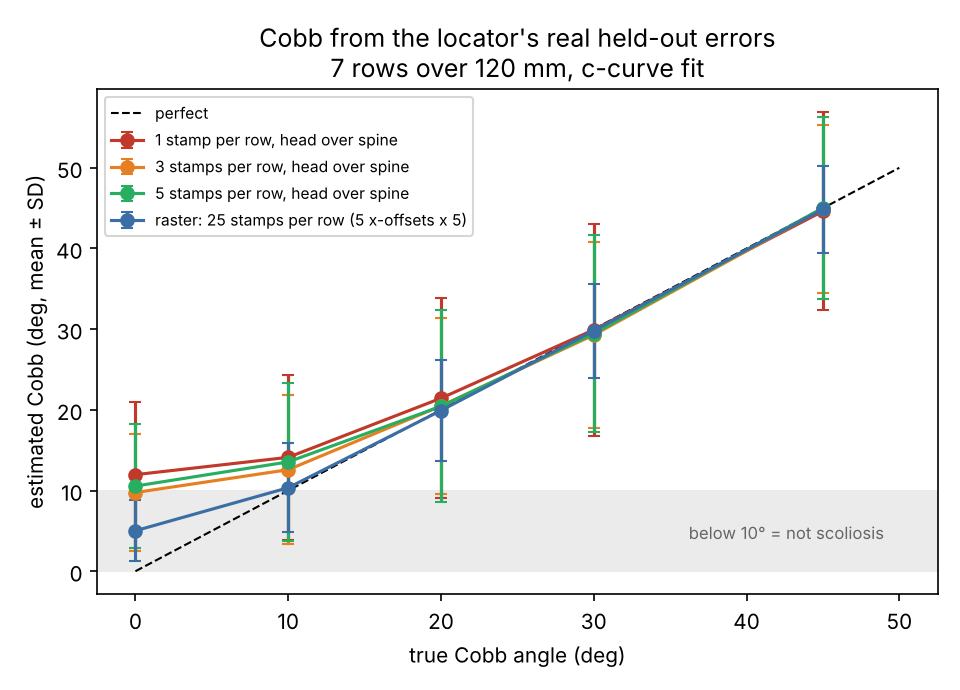
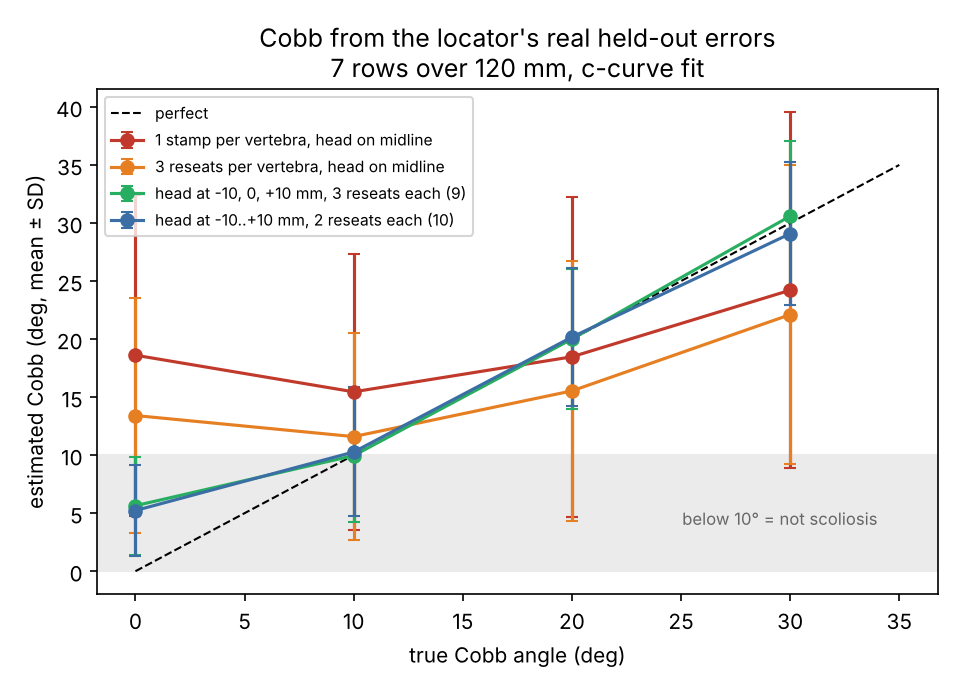
Calibrate locator shrinkage and simulate per-vertebra stamping layouts
Ridge read a true 10 mm offset as ~6.5 mm, which would flatten a shifted
spine. The held-out predictions are now put back on scale with a fitted
line stored in the model. cobb.py feasibility now stamps fixed head spots
from the straight midline at each vertebra, matching phantoms whose
vertebrae are only shifted sideways.

Claude-Session: https://claude.ai/code/session_01RUpA9DHw6u6gxAwv6kfaMd

diff --git a/pc/cobb.py b/pc/cobb.py
@@ -12,7 +12,9 @@ estimate     takes the locator's per-stamp spine position (spine_x_mm = head x -
                         tilt over the scanned span (handles S-curves with --deg 3)
 feasibility  Monte Carlo with the locator's REAL held-out errors (`locator.py train` writes them):
              bend a virtual spine to a known Cobb angle, give every row the errors of real stamps
-             from one held-out row, fit, and compare. A stamp's error does not depend on where the
+             from one held-out row, fit, and compare. The head is stamped at fixed spots
+             from the straight midline (where each vertebra would be if centred), as on a
+             phantom whose vertebrae are flat and only shifted sideways. A stamp's error does not depend on where the
              spine is, only on the head-to-spine offset, so healthy-phantom errors carry over to a
              bent spine as long as each vertebra still sits square under the head (see report.md:
              that is exactly the part healthy data cannot test).
@@ -81,28 +83,37 @@ def feasibility(a):
     y_rows = np.asarray(rows, float) if a.levels is None else np.linspace(0, a.span, a.levels)
     y0, span = y_rows.min(), np.ptp(y_rows)
 
-    def one_draw(cobb, n_per_row, centred_only):
+    grid = np.array(sorted(df.x_mm.unique()))
+
+    def one_draw(cobb, heads, n_per_head):
+        """Head stamped at `heads` mm from the straight midline, n_per_head reseats each. A stamp's
+        label is head - shift; its error is drawn from real stamps at the nearest trained offset."""
+        shift = c_curve(cobb, y_rows, y0, span)
         xs = []
-        for _ in y_rows:
+        for s in shift:
             pool = pools[rng.integers(len(pools))]                    # a whole real row: keeps row bias
-            if centred_only:
-                pool = pool[pool.x_mm == 0]
-            e = pool.err_spine.to_numpy()
-            xs.append(np.median(rng.choice(e, size=n_per_row, replace=len(e) < n_per_row)))
-        x = c_curve(cobb, y_rows, y0, span) + np.array(xs)
+            e = []
+            for h in heads:
+                lab = grid[np.argmin(np.abs(grid - (h - s)))]
+                ee = pool[pool.x_mm == lab].err_spine.to_numpy()
+                e += list(rng.choice(ee, size=n_per_head, replace=len(ee) < n_per_head))
+            xs.append(s + np.mean(e))
+        x = np.array(xs)
         return fit_c(y_rows, x)[0], fit_poly(y_rows, x, 2)[0]
 
     out = []
-    for scheme, n, centred in [("1 stamp per row, head over spine", 1, True),
-                               ("3 stamps per row, head over spine", 3, True),
-                               ("5 stamps per row, head over spine", 5, True),
-                               ("raster: 25 stamps per row (5 x-offsets x 5)", 25, False)]:
+    schemes = [("1 stamp per vertebra, head on midline", [0], 1),
+               ("3 reseats per vertebra, head on midline", [0], 3),
+               ("head at -10, 0, +10 mm, 3 reseats each (9)", [-10, 0, 10], 3),
+               ("head at -10..+10 mm, 2 reseats each (10)", [-10, -5, 0, 5, 10], 2),
+               ("raster -10..+10 mm, 5 reseats each (25)", [-10, -5, 0, 5, 10], 5)]
+    for scheme, heads, n in schemes:
         for cobb in a.cobbs:
-            est = np.array([one_draw(cobb, n, centred) for _ in range(a.draws)])
+            est = np.array([one_draw(cobb, heads, n) for _ in range(a.draws)])
             for k, method in enumerate(["c-curve", "poly2"]):
                 e = est[:, k]
-                out.append({"scheme": scheme, "stamps_per_row": n, "true_cobb": cobb, "method": method,
-                            "mean_est": e.mean(), "bias": e.mean() - cobb, "sd": e.std(),
+                out.append({"scheme": scheme, "stamps_per_row": n * len(heads), "true_cobb": cobb,
+                            "method": method, "mean_est": e.mean(), "bias": e.mean() - cobb, "sd": e.std(),
                             "p95_abs_err": np.percentile(np.abs(e - cobb), 95),
                             "pct_read_ge_10": 100 * np.mean(e >= 10)})
     res = pd.DataFrame(out)
@@ -147,7 +158,8 @@ def main():
     e.add_argument("--deg", type=int, default=2)
     f = sub.add_parser("feasibility")
     f.add_argument("predictions", help="predictions.csv written by locator.py train")
-    f.add_argument("--cobbs", type=float, nargs="+", default=[0, 10, 20, 30, 45])
+    f.add_argument("--cobbs", type=float, nargs="+", default=[0, 10, 20, 30],
+                   help="true angles to simulate (above ~30 deg the shift leaves the trained +-10 mm)")
     f.add_argument("--levels", type=int, default=None, help="rows to simulate (default: the real rows)")
     f.add_argument("--span", type=float, default=120, help="mm covered by --levels")
     f.add_argument("--draws", type=int, default=2000)

diff --git a/pc/locator.py b/pc/locator.py
@@ -46,12 +46,17 @@ def train(a):
     print(f"{len(st)} stamps, {X.shape[1]} features (phantom discs {', '.join(chans)}, "
           f"{len(freqs)} freqs {freqs[0]:g}-{freqs[-1]:g} Hz), {len(set(groups))} CV groups by {a.group}")
 
-    pred = locate.grouped_cv(X, y, groups)              # nested: alpha picked inside each fold
+    raw = locate.grouped_cv(X, y, groups)               # nested: alpha picked inside each fold
+    # Ridge shrinks toward the mean (a true 10 mm reads ~6.5). Undo it with a straight line fitted
+    # to the held-out predictions, so a stamp with the head far from the spine isn't under-read.
+    slope_raw, icpt_raw = np.polyfit(y, raw, 1)
+    pred = (raw - icpt_raw) / slope_raw
     err = pred - y
     alpha = locate.pick_alpha(X, y, groups)
     model = locate.ridge_fit(X, y, alpha)
 
     res = st[["trial_id", "session", "repeat", "x_mm", "y_mm", "imu_x_mm", "imu_y_mm"]].copy()
+    res["pred_raw_mm"] = raw
     res["pred_x_mm"] = pred
     res["error_mm"] = err
     out = Path(a.results)
@@ -72,7 +77,8 @@ def train(a):
         "side_correct_pct": float(100 * np.mean(np.sign(pred[side]) == np.sign(y[side]))),
         "row_bias_sd_mm": float(row_bias.std()),
         "within_row_sd_mm": float(res.groupby("y_mm").error_mm.std().mean()),
-        "slope": float(np.polyfit(y, pred, 1)[0]),
+        "slope_before_calibration": float(slope_raw),
+        "calibration": {"slope": float(slope_raw), "intercept": float(icpt_raw)},
     }
     meta = {"trained": dt.datetime.now().isoformat(timespec="seconds"), "data": str(a.data),
             "turn": a.turn, "bad_discs": list(a.bad_discs), "features": "share log10 amp",
@@ -84,14 +90,14 @@ def train(a):
              f"{', '.join(a.bad_discs) or 'none'}. Phantom discs used: {', '.join(chans)}.",
              f"{len(y)} stamps; each {a.group} group held out in turn (nested ridge alpha; final alpha {alpha:g}).", "",
              "| | value |", "|---|---|",
-             f"| mean abs error per stamp | {metrics['mae_mm']:.2f} mm |",
+             f"| mean abs error per stamp | {metrics['mae_mm']:.2f} mm (calibrated) |",
              f"| RMS error per stamp | {metrics['rmse_mm']:.2f} mm |",
              f"| guessing the mean x | {base:.2f} mm |",
              f"| mean of the 5 repeats per spot | {metrics['mae_5stamp_mean_mm']:.2f} mm |",
              f"| side right/wrong for abs(x) >= 5 mm | {metrics['side_correct_pct']:.0f} % correct |",
              f"| error shared by a whole row (SD of row bias) | {metrics['row_bias_sd_mm']:.2f} mm |",
              f"| error stamp-to-stamp inside a row (SD) | {metrics['within_row_sd_mm']:.2f} mm |",
-             f"| slope of prediction vs truth | {metrics['slope']:.2f} (1 = unbiased) |", "",
+             f"| shrink before calibration (slope) | {slope_raw:.2f}; predictions are divided back out |", "",
              "Prediction by true x (mean, SD, n):", "", "| true x | mean | SD | n |", "|---|---|---|---|"]
     lines += [f"| {x:g} | {r['mean']:+.1f} | {r['std']:.1f} | {int(r['size'])} |" for x, r in by_x.iterrows()]
     lines += ["", "Mean abs error by y row: " + ", ".join(f"y={k:g}: {v:.1f}" for k, v in by_row.items())]
@@ -133,7 +139,8 @@ def predict(a):
     trials, feats = locate.load(a.data, turn, bad)
     st = stamps(trials)
     X, *_ = locate.share_matrix(feats, st.trial_id, m["channels"], m["freqs"], m["f_min"], m["f_max"])
-    st["pred_x_mm"] = locate.ridge_predict(m, X)
+    cal = m["cv"].get("calibration", {"slope": 1.0, "intercept": 0.0})
+    st["pred_x_mm"] = (locate.ridge_predict(m, X) - cal["intercept"]) / cal["slope"]
     hx, hy = ("imu_x_mm", "imu_y_mm") if a.position == "imu" else ("x_mm", "y_mm")
     st["head_x_mm"], st["head_y_mm"] = st[hx], st[hy]
     st["spine_x_mm"] = st.head_x_mm - st.pred_x_mm

diff --git a/analysis/stamps_2026-11-22/README.md b/analysis/stamps_2026-11-22/README.md
@@ -34,67 +34,67 @@ Reproduce: `cd pc && python locator.py train --data final_data --turn cw90 --bad
 Ridge regression on share log amplitude of 3 discs, 50-190 Hz (39 features). Held out one y row at
 a time (7 folds, ridge strength picked inside each fold).
 
-| | |
-|---|---|
-| mean abs error per stamp | **3.7 mm** (guessing the mean: 5.9 mm) |
-| RMS error | 4.5 mm |
-| side correct when the spine is 5-10 mm off | 88 % |
-| mean of 5 reseats at one spot | 3.2 mm |
-| error shared by a whole row | SD 1.3 mm |
-| stamp-to-stamp error inside a row | SD 4.4 mm |
+Ridge shrinks toward 0 (a true 10 mm read 6.5 mm), which would make a shifted spine look straighter.
+The held-out predictions are put back on scale with a straight-line calibration (slope 0.63), stored
+in the model. That makes each stamp noisier but unbiased, which is what the Cobb fit needs.
 
-The predictions are shrunk toward 0 (slope 0.63), typical for ridge with this much noise. The 50-190 Hz
-band was chosen on this same data from four candidates (full band: 3.7 vs 4.1 mm), so expect a
-little worse on new data. Up-down position relative to a process isn't modelled yet (see above).
+| | before calibration | calibrated (used) |
+|---|---|---|
+| mean abs error per stamp | 3.7 mm | 4.5 mm (guessing the mean: 5.9 mm) |
+| mean by true x (-10, -5, 0, +5, +10) | -6.0, -2.9, -0.8, +0.7, +6.2 | -9.0, -4.8, -1.8, +4.2, +11.5 |
+| side correct when 5-10 mm off | 88 % | 91 % |
+
+Stamps with the spine right under the head are the noisiest (SD 8 mm at x = 0 vs 4-6 mm at ±5-10),
+so stamps beside the spine carry more information than stamps on it. The 50-190 Hz band was picked
+on this same data from four candidates, so expect slightly worse on new data. Up-down position
+relative to a process isn't modelled (see above). The calibration line is fitted to the same
+held-out predictions it is scored on.
 
 ![locator](locator_cv.png)
 
-## Cobb angle: feasible, with limits
+## Cobb angle from a phantom with shifted (not rotated) vertebrae
+
+bri's scoliotic phantoms have flat vertebrae that are only shifted sideways, so every stamp looks
+like a healthy-phantom stamp at some offset, and these errors carry over directly. No tilt test needed.
 
 `cobb.py feasibility` bends a virtual spine to a known Cobb angle (single C-curve over the 7 rows,
-120 mm), gives each row the real held-out errors from one row of this batch, fits the curve and
-compares. This works because a stamp's error depends on the head-to-spine offset, not on where the
-spine is, as long as each vertebra still sits square under the head.
+120 mm). At each vertebra the head is stamped at fixed spots measured from the straight midline (where
+the vertebra would be if centred). Each stamp gets a real held-out error from this batch at the nearest
+trained offset, with whole rows drawn together so row-level drift is kept. Estimated Cobb, mean ± SD
+of 1000 simulated scans (c-curve fit):
 
-| true Cobb | full raster (25 stamps/row) | 3 stamps/row over the spine |
-|---|---|---|
-| 0° | 5.0 ± 3.8°, 11 % read as ≥ 10° | 9.8 ± 7.2°, 42 % read as ≥ 10° |
-| 10° | 10.3 ± 5.5° | 12.6 ± 9.3° |
-| 20° | 19.9 ± 6.2°, 94 % read as ≥ 10° | 20.5 ± 10.9° |
-| 30° | 29.8 ± 5.8° | 29.3 ± 11.5° |
-| 45° | 44.8 ± 5.4° | 44.9 ± 10.4° |
+| stamps per vertebra | 0° | 10° | 20° | 30° |
+|---|---|---|---|---|
+| 1, head on midline | 18.6 ± 13.8 | 15.5 ± 11.9 | 18.5 ± 13.8 | 24.2 ± 15.3 |
+| 3 reseats, head on midline | 13.4 ± 10.1 | 11.6 ± 8.9 | 15.5 ± 11.2 | 22.1 ± 12.9 |
+| head at -10, 0, +10 mm, 3 reseats (9) | 5.6 ± 4.2 | 10.0 ± 5.7 | 20.0 ± 6.0 | 30.6 ± 6.5 |
+| **head at -10, -5, 0, +5, +10 mm, 2 reseats (10)** | **5.2 ± 3.9** | **10.3 ± 5.6** | **20.2 ± 5.9** | **29.1 ± 6.2** |
+| same 5 spots, 5 reseats (25, like 11-22) | 4.6 ± 3.6 | 10.3 ± 5.0 | 20.0 ± 5.0 | 29.1 ± 5.2 |
 
-The real healthy phantom, measured with all its stamps, reads **6.3°** (c-curve) and 7.1° (quadratic),
-which matches the 0° row.
+The healthy phantom itself, from all its 11-22 stamps, reads 7.3° (quadratic fit 8.5°).
 
-So today: a full raster tells a healthy spine from a 20-30°+ curve, with about ±6° per scan.
-That's not enough for the 10° threshold or for the ±3-5° that X-ray Cobb readers achieve. The
-precision comes from the per-row spine estimate: ±1.5 mm per row gives about ±4°, ±1 mm gives ±3°
-(7 rows, 120 mm). The current raster gets about ±2 mm per row.
+- Stamping only on the midline doesn't work: x = 0 is the model's noisiest offset, and a healthy spine
+  reads 13-19°.
+- **Recommended: 5 head spots per vertebra (-10, -5, 0, +5, +10 mm from the midline), 2 reseats each.**
+  That is 10 stamps per vertebra, 70 for 7 vertebrae, and about as good as the 25-stamp raster:
+  a healthy spine reads 5 ± 4° (13 % of scans ≥ 10°), 20° reads 20 ± 6°.
+- So it separates healthy from about 20°+ curves, at about ±6° per scan. It's not yet precise
+  enough for the 10° cutoff. That needs about 1-1.5 mm per vertebra (±1 mm gives about ±3° over 7 rows).
+- Keep each vertebra's shift within about ±10 mm of where the head is (the trained range). Above ~30°
+  the shift over 120 mm passes 10 mm, so move the head spots with the spine and type the head's real x.
+- Keep rows centred on a vertebra, not between two, so a stamp doesn't straddle two shifts.
+- The angle measured is the angle of the line through the shifted vertebrae. On a patient, rotated
+  vertebrae would make the surface line read lower than the X-ray Cobb; this phantom can't show that.
 
 ## Do you need to stamp scoliotic phantoms?
 
-**Not to train.** The locator learns the head-to-spine offset, and a healthy phantom with the head
-moved left/right gives exactly those offsets. Training on a scoliotic phantom only adds the same
-offsets with less control.
+**Not to train.** The locator learns the head-to-spine offset, and the healthy phantom with the head
+moved left/right gives exactly those offsets. **To validate, one scan** of a scoliotic phantom with a
+designed Cobb angle (about 20-30°), stamped as recommended above (70 stamps), gives one real Cobb
+reading to compare with the design. A second pass on another day gives repeatability. No blanks are
+needed for the model (one every 30-45 min is enough to watch disc health).
 
-**Yes, a little, to validate**, because healthy data can't test three things a real curve brings:
-1. each vertebra is *tilted* under the head (up to ~10-20° in a 30-45° curve),
-2. vertebrae are *rotated axially*, which moves the spinous process toward the concave side, so the
-   process line under-reads the X-ray Cobb,
-3. the lateral offset changes *within* one head footprint.
-
-Cheapest order:
-
-1. **Tilt test on the healthy phantom (about 1 hour, no new phantom).** Turn the phantom (or the
-   head) 15° in the skin plane and stamp x = -10, 0, +10 at two y rows, 5 reseats each (30 stamps).
-   If `locator.py predict` stays unbiased, item 1 is covered. If it's biased, add tilted stamps to
-   training (still healthy phantom).
-2. **One scoliotic phantom, validation only.** One curve near 30° with a known (designed) Cobb, and
-   axial rotation in the print if you can. Stamp the same 7 rows as the healthy raster. The minimum
-   is the 5 x-offsets × 3 reseats per row (105 stamps), because the raster average is what makes
-   Cobb work. One pass gives one Cobb reading; a second pass on another day tells you the repeatability.
-   No blanks needed for the model (one every 30-45 min is enough to watch disc health).
+![cobb](cobb_feasibility.png)
 
 ## Next for better accuracy (healthy phantom)
 
@@ -102,5 +102,4 @@ Cheapest order:
 - Randomise the order of x and y (this batch ran row by row, so y is confounded with time).
 - A second session on another day, so the CV can hold out a whole session.
 - Fix the IMU position (or use a printed grid), so a raster doesn't need typed positions.
-- More stamps per spot don't help much (5-stamp mean 3.2 vs 3.7 mm); more x offsets (±2.5, ±7.5, ±15)
-  and more rows help the Cobb fit more.
+- More head spots help more than more reseats at one spot; more rows (vertebrae) help the Cobb fit most.

diff --git a/analysis/stamps_2026-11-22/locator_cv_report.md b/analysis/stamps_2026-11-22/locator_cv_report.md
@@ -5,23 +5,23 @@ Data `pc/final_data`, head turn `cw90`, discs left out (recorded names): dl. Pha
 
 | | value |
 |---|---|
-| mean abs error per stamp | 3.70 mm |
-| RMS error per stamp | 4.53 mm |
+| mean abs error per stamp | 4.52 mm (calibrated) |
+| RMS error per stamp | 5.86 mm |
 | guessing the mean x | 5.94 mm |
-| mean of the 5 repeats per spot | 3.23 mm |
-| side right/wrong for abs(x) >= 5 mm | 88 % correct |
-| error shared by a whole row (SD of row bias) | 1.33 mm |
-| error stamp-to-stamp inside a row (SD) | 4.42 mm |
-| slope of prediction vs truth | 0.63 (1 = unbiased) |
+| mean of the 5 repeats per spot | 3.48 mm |
+| side right/wrong for abs(x) >= 5 mm | 91 % correct |
+| error shared by a whole row (SD of row bias) | 2.12 mm |
+| error stamp-to-stamp inside a row (SD) | 5.47 mm |
+| shrink before calibration (slope) | 0.63; predictions are divided back out |
 
 Prediction by true x (mean, SD, n):
 
 | true x | mean | SD | n |
 |---|---|---|---|
-| -10 | -6.0 | 3.0 | 35 |
-| -5 | -3.3 | 2.4 | 34 |
-| 0 | -1.5 | 5.0 | 37 |
-| 5 | +2.3 | 3.4 | 35 |
-| 10 | +6.9 | 3.8 | 35 |
+| -10 | -9.0 | 4.7 | 35 |
+| -5 | -4.8 | 3.9 | 34 |
+| 0 | -1.8 | 8.0 | 37 |
+| 5 | +4.2 | 5.4 | 35 |
+| 10 | +11.5 | 6.1 | 35 |
 
-Mean abs error by y row: y=0: 3.8, y=20: 4.4, y=40: 2.8, y=60: 3.5, y=80: 3.7, y=100: 4.6, y=120: 3.1
+Mean abs error by y row: y=0: 3.7, y=20: 5.2, y=40: 4.1, y=60: 3.2, y=80: 6.6, y=100: 5.2, y=120: 3.7
